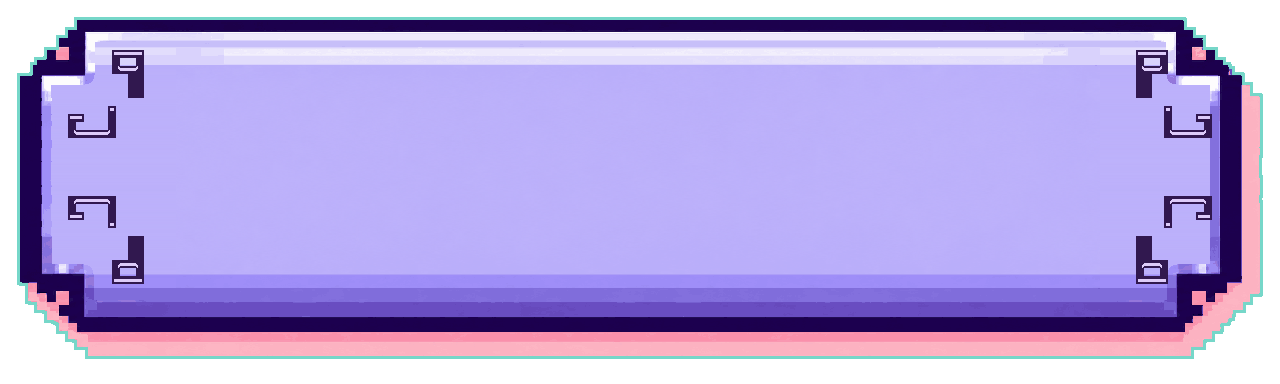
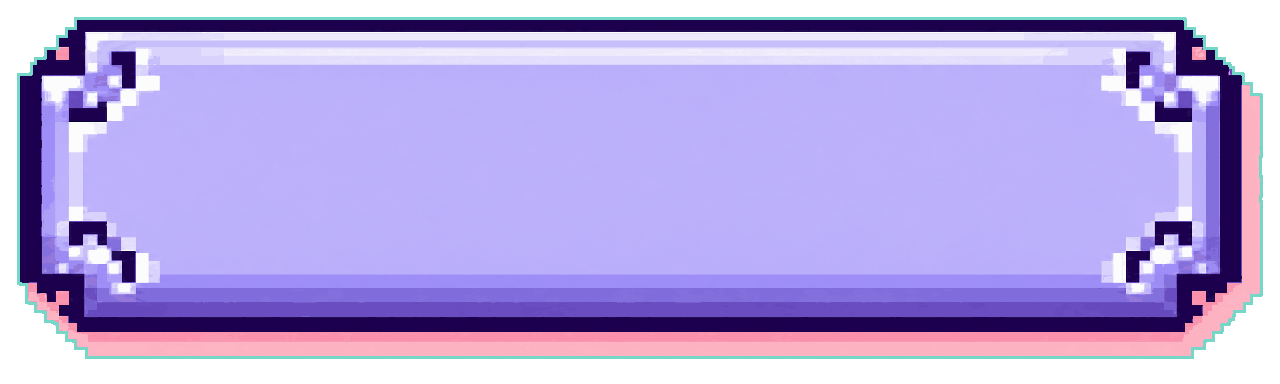
Restore original button details and corner scaling

Changed region(s): [[0.8438, 0.125, 0.9688, 0.7812], [0.0312, 0.125, 0.125, 0.7812]]

diff --git a/apps/desktop/src/styles/pixelButtons.css b/apps/desktop/src/styles/pixelButtons.css
@@ -101,9 +101,9 @@
   box-sizing: border-box;
   pointer-events: none;
   border: solid transparent;
-  border-width: 16px 20px 20px;
-  border-image-slice: 160 180 192 180 fill;
-  border-image-width: 16px 20px 20px;
+  border-width: 10px 16px 12px;
+  border-image-slice: 96 180 108 180 fill;
+  border-image-width: 10px 16px 12px;
   border-image-repeat: stretch;
   border-image-source: var(--sprite-normal);
   transition: filter 100ms ease;

diff --git a/docs/execution/review-handoffs/windows-webview-polish-2026-10-25.md b/docs/execution/review-handoffs/windows-webview-polish-2026-10-25.md
@@ -124,3 +124,8 @@ Human-selected Phase B only. Review against the final artwork-preserving impleme
 - Applied the generated angular motifs to primary as well as secondary normal/hover/pressed/focus states. Motifs now use 8px source-grid cells and an inset pale highlight for relief. Cleared the old noisy ornament region using the original row surface color, preserving the purple gradient/bevel, exterior contour and complete alpha. Disabled original sprites retained.
 - Inspected Capture and Appearance browser fixtures at actual sizes, including 40px controls. Evidence: button-runtime-refined.jpg in artifacts/lab/checks/windows-polish-2026-10-27/ (browser fixture, not native Windows screenshot). Frontend build passed; native build regenerated. No push.
 - Final UI tests passed: 69 passed, 1 skipped. The correction changes artwork/slicing only; no behavioral test changes.
+
+## Restore original small-button appearance: 2026-10-28
+
+- Human rejected the generated/enlarged ornament treatment and expanded corner slices as visually worse at small sizes. Restored all ten primary/secondary state PNGs plus pixelButtons.css byte-for-byte from 4d11d80, the baseline preceding imagegen and recut experiments. This retains the earlier accepted top-stripe cleanup, original bevel/highlights and old corner scaling. No new ornament redesign or illumination treatment in this pass. All other app updates remain.
+- Exact file-byte assertions passed against that baseline; production frontend build passed. Native build regenerated for the restored appearance. No push.
